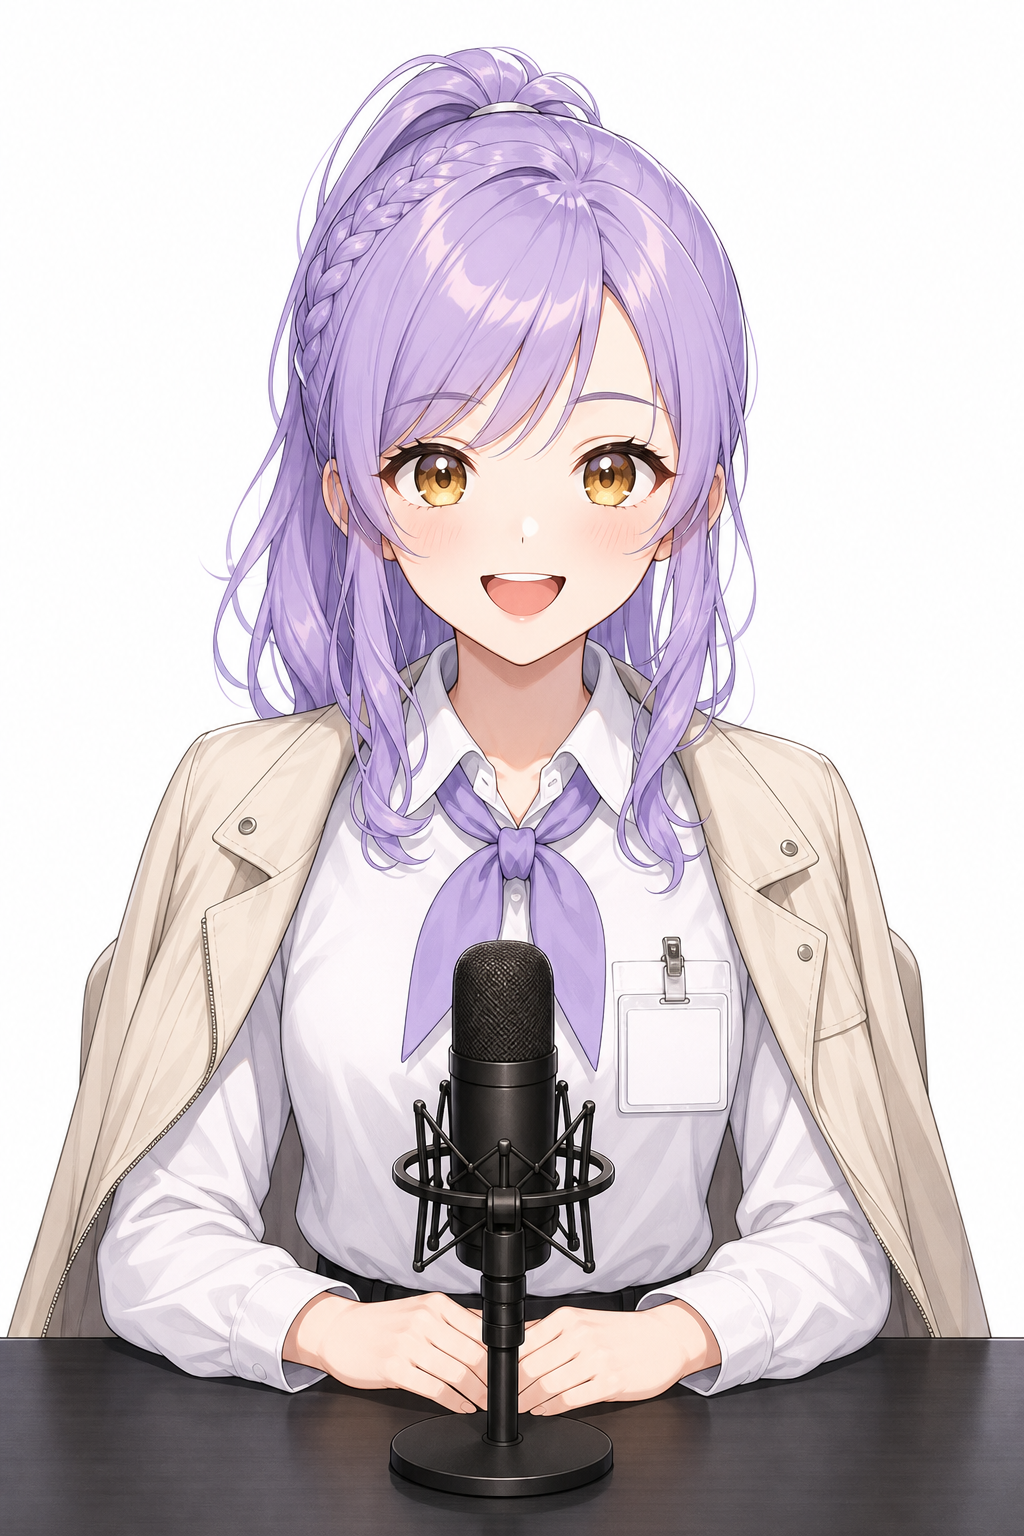
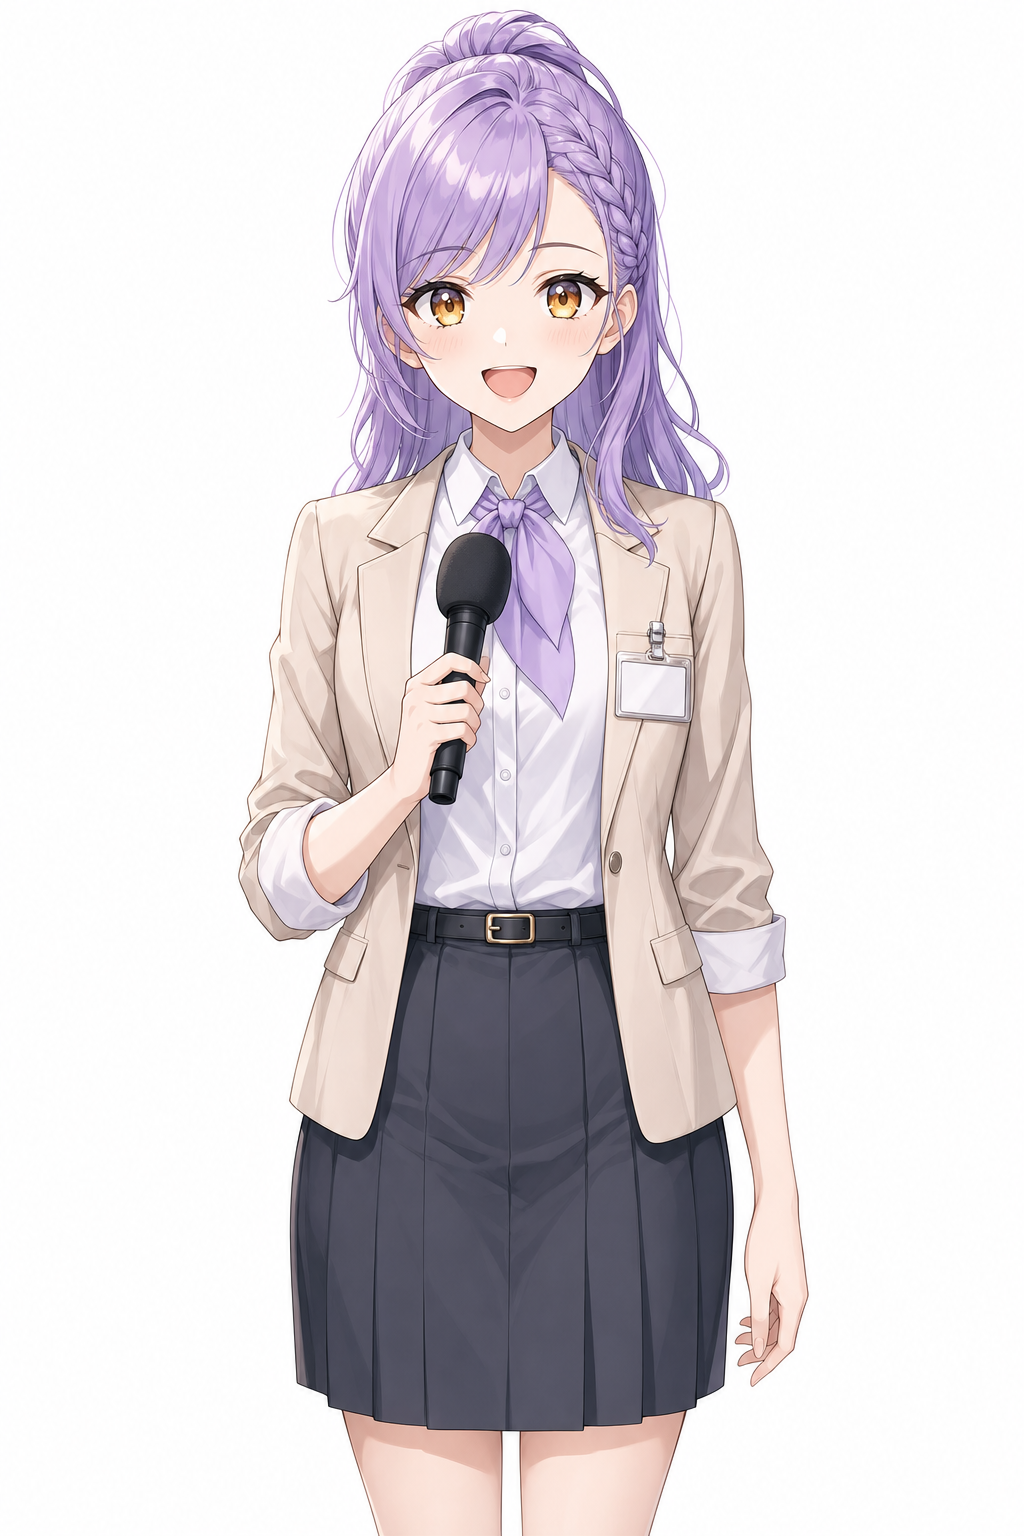
feat: 미아를 레이와 같은 반신 정면 직립 규격으로 통일
미아는 데스크 바스트업, 레이는 반신 스탠딩이라 두 리포터를 같은 포맷에 세울 수
없었다. 리포터는 반신 정면 직립으로 규격을 하나로 맞추고, 앵커(로지)만 데스크
바스트업으로 남긴다.

재킷은 어깨에 걸치던 것을 정식 착용 + 소매 롤업으로 바꿨다. 걸친 재킷은 셔츠
소매와 겹쳐서 리그 파츠로 팔을 떼어낼 때 재킷 안쪽 라인을 따로 그려야 하는데,
착용 상태면 팔과 재킷소매가 한 덩어리로 처리된다. 데스크에서 일어선 구도이므로
마이크도 콘덴서에서 무선 핸드헬드로 교체했다.

하의는 레이가 슬랙스이므로 미아는 스커트로 갈라, 나란히 세웠을 때 실루엣으로
구분되게 했다.

diff --git a/CHARACTERS-REPORTERS-DRAFT.md b/CHARACTERS-REPORTERS-DRAFT.md
@@ -12,7 +12,7 @@
 | 그림체 | 밝은 애니 일러스트, 얇고 깔끔한 선, **밝은** 소프트 셀셰이딩(그림자 가볍게), 큰 눈 + 하이라이트 2겹, 흰 배경 | **공통(고정)** |
 | 유니폼 | 크리스프한 **화이트 드레스 셔츠** + 목에 시그니처 컬러 1점 | **공통(고정)** |
 | 연령대 | 22세 전후로 통일 | **공통(고정)** |
-| 프레이밍 | 스튜디오=바스트업(데스크+콘덴서 마이크) / 현장=**허벅지까지 반신 스탠딩**(핸드헬드 마이크) | 포지션별 |
+| 프레이밍 | 앵커=바스트업(데스크+콘덴서 마이크) / **리포터=허벅지까지 반신 정면 직립**(무선 핸드헬드 마이크) | 포지션별 |
 | 시그니처 컬러 | 머리색 또는 넥웨어 | **개별** |
 | 담당 주제·톤 | 코너 성격 | **개별** |
 
@@ -28,7 +28,7 @@
 | 인물 | 시그니처 | 머리 | 눈 | 프레이밍 | 담당 주제·톤 |
 |---|---|---|---|---|---|
 | 로지 (기존) | 민트 `#57e6c3` | 민트/아쿠아 롱 스트레이트 | 틸 | 바스트업(스튜디오) | **메인 앵커** — 진행·정리, 밝고 명랑 |
-| 미아 (초안) | 라벤더 `#b28cf0` | 라벤더-바이올렛 하프업 포니테일 | 앰버 골드 | 바스트업(스튜디오) | 신작 첫인상·이벤트 속보, 텐션 높고 리액션 큼 |
+| 미아 (초안) | 라벤더 `#b28cf0` | 라벤더-바이올렛 하프업 포니테일 | 앰버 골드 | **반신 스탠딩** | 신작 첫인상·이벤트 속보, 텐션 높고 리액션 큼 |
 | 레이 (초안) | 슬레이트 블루 `#5b7fa6` (넥타이) | 애쉬 슬레이트 `#5c6b7a` | 블루 그레이 | **반신 스탠딩(현장)** | 현장 취재·심층 리포트, 차분하고 자신감 있는 톤 |
 
 ---
@@ -41,11 +41,16 @@
   로지의 "길고 차분한 스트레이트"와 대비되는 **움직이는 실루엣**.
 - **눈**: 따뜻한 앰버 골드. 로지의 차가운 틸과 온도 대비.
 - **얼굴**: 로지보다 살짝 둥근 소녀상, 활짝 웃는 입(로지는 닫힌 미소) → 밝기 한 단계 위.
-- **복장**: 화이트 셔츠 + **라벤더 네커치프**(로지의 타이 자리를 스카프로 변주),
-  어깨에 걸친 베이지 프레스 재킷, 가슴 포켓에 프레스 ID 카드.
-- **소품**: 스튜디오 콘덴서 마이크.
+- **복장**: 화이트 셔츠 + **라벤더 네커치프**(로지의 타이 자리를 스카프로 변주) +
+  베이지 프레스 재킷을 **정식 착용하고 소매 롤업**(어깨에 걸치지 않음 — 팔 실루엣이 명확해야
+  리그 파츠에서 팔과 재킷소매를 한 덩어리로 처리할 수 있다) + 차콜 무릎길이 플리츠 스커트 +
+  얇은 벨트 + 가슴 포켓 프레스 ID 카드.
+  - 하의를 레이(슬랙스)와 갈라 스커트로 두면 나란히 세웠을 때 실루엣이 구분된다.
+- **소품**: **무선 핸드헬드 스틱 마이크**(케이블 없음, 가슴 높이).
+- **프레이밍**: 레이와 동일 규격 — **머리~허벅지 반신, 정면 직립**(어깨·골반 수평,
+  고개 기울임 없음, 양발 균등, 마이크 든 팔 외 나머지 팔은 자연스럽게 내림).
 - **말투**: 감탄사 많고 문장이 빠름. 로지가 정리하면 미아가 흥분한다.
-- **상태**: 초안 1회 생성으로 그림체 합격. `public/host/draft/mia.png`
+- **상태**: 초안 `public/host/draft/mia.png` (= mia-v2-worn, 반신 정면 직립)
 
 ## 2. 레이 (Rei) ♀ — 현장 취재
 
@@ -110,8 +115,10 @@
 - [ ] 이름 확정 (미아 / 레이)
 - [x] 레이 헤어 길이 확정 — 어깨선 레이어드 중단발
 - [x] 레이 자세 확정 — 정면 직립 (rei-v7-a)
-- [ ] 확정 시안으로 베이스 PNG 재생성 — 스튜디오 캐릭터는 로지와 동일 캔버스 600×911,
-      현장 캐릭터(레이)는 반신이라 별도 캔버스 규격 필요
+- [x] 미아 프레이밍을 레이와 동일한 반신 정면 직립으로 통일 (mia-v2-worn)
+- [ ] **리포터 공용 캔버스 규격 확정** — 로지는 바스트업 600×911이지만 미아·레이는 반신이라
+      다리까지 들어간다. 두 리포터가 같은 캔버스·같은 눈높이·같은 신장 비율을 쓰도록
+      규격을 먼저 정하고 그 규격으로 베이스 PNG를 재생성할 것(지금 두 장은 스케일이 미세하게 다름)
 - [ ] 리그 파츠 세트 (`HOST-RIG-PARTS.md` 규격: blink / expr 8종 / mouth 7종) — 이때 레이 눈 크기 보정
 - [ ] `src/components/HostStage.astro` 다중 호스트 지원 (현재 로지 하드코딩)
 - [ ] `content.config.ts` frontmatter에 `host: rosie | mia | rei` 필드 추가
